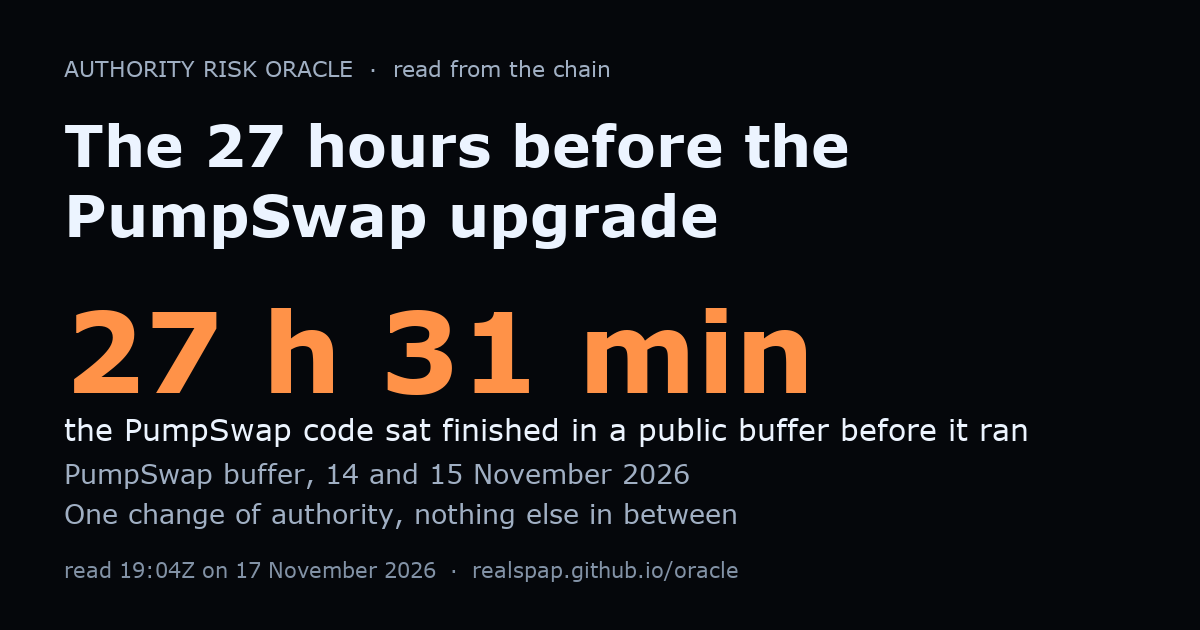
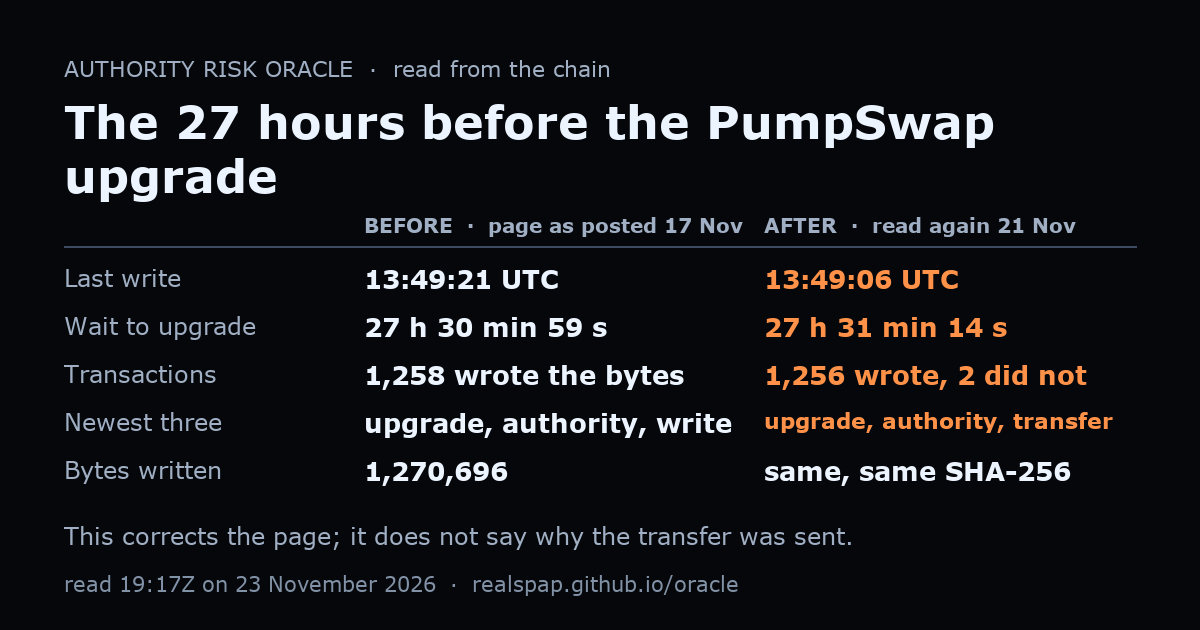
Oracle site: correct the last write of the PumpSwap note, 13:49:06 UTC and not 13:49:21 UTC
The note The 27 hours before the PumpSwap upgrade took a transaction that sends 1 lamport to each of 19 accounts for the last write. The last write is at 13:49:06 UTC (block 469350379), the wait is 27 hours 31 minutes 14 seconds instead of 27 hours 30 minutes 59 seconds, and 1,256 of the 1,258 transactions counted as writes hold a write. The bytes and their SHA-256 are unchanged. The page has a before and after table, the transfer, two more replay commands, a new share card and its date in the site map. Read at 18:56Z on 25 November 2026.

diff --git a/oracle/notes/the-27-hours/index.html b/oracle/notes/the-27-hours/index.html
@@ -1,8 +1,32 @@
-<!doctype html><html lang="en"><head><meta name="color-scheme" content="dark light"><meta charset="utf-8"><meta http-equiv="Content-Security-Policy" content="default-src 'none'; style-src 'unsafe-inline'; img-src data: https://raw.githubusercontent.com; base-uri 'none'; form-action 'none'"><meta name="referrer" content="no-referrer"><title>The 27 hours before the PumpSwap upgrade</title><meta name="description" content="I replayed the buffer of the PumpSwap upgrade of 15 November 2026 transaction by transaction: its code was fully written at 13:49:21 UTC on 14 November and ran at 17:20:20 UTC on 15 November, 27 hours 31 minutes later."><link rel="canonical" href="https://realspap.github.io/oracle/notes/the-27-hours/"><meta property="og:type" content="article"><meta property="og:title" content="The 27 hours before the PumpSwap upgrade"><meta property="og:description" content="I replayed the buffer of the PumpSwap upgrade of 15 November 2026 transaction by transaction: its code was fully written at 13:49:21 UTC on 14 November and ran at 17:20:20 UTC on 15 November, 27 hours 31 minutes later."><meta property="og:url" content="https://realspap.github.io/oracle/notes/the-27-hours/"><meta property="og:image" content="https://realspap.github.io/oracle/cards/the-27-hours.png"><meta property="og:image:width" content="1200"><meta property="og:image:height" content="630"><meta name="twitter:card" content="summary_large_image"><meta name="twitter:title" content="The 27 hours before the PumpSwap upgrade"><meta name="twitter:description" content="I replayed the buffer of the PumpSwap upgrade of 15 November 2026 transaction by transaction: its code was fully written at 13:49:21 UTC on 14 November and ran at 17:20:20 UTC on 15 November, 27 hours 31 minutes later."><meta name="twitter:image" content="https://realspap.github.io/oracle/cards/the-27-hours.png"><meta name="viewport" content="width=device-width,initial-scale=1"><style>body{font-family:-apple-system,BlinkMacSystemFont,Helvetica,Arial,sans-serif;max-width:860px;margin:0 auto;padding:24px 16px 60px;color:#e9f2ff;background:#05070b;background-image:radial-gradient(700px 400px at 85% -10%,rgba(61,230,255,.12),transparent 60%);line-height:1.55;color-scheme:dark}h1{font-size:32px;margin:10px 0 6px;letter-spacing:-.03em;line-height:1.15}h2{font-size:13px;margin:34px 0 8px;font-family:ui-monospace,Menlo,monospace;text-transform:uppercase;letter-spacing:.1em;color:#7a8ea6;font-weight:500}.lead{font-size:18px;color:#cfe0f5}nav{font-size:13px;display:flex;flex-wrap:wrap;gap:2px 12px}nav a{margin-right:0}a{color:#3de6ff}table{border-collapse:collapse;width:100%;font-size:14px}th{text-align:left;padding:6px 10px 6px 0;font-weight:500;color:#a3b6cc;border-bottom:1px solid rgba(120,175,230,.2)}td{padding:8px 10px 8px 0;vertical-align:top;border-bottom:1px solid rgba(120,175,230,.1)}.v{font-weight:700;white-space:nowrap}.v.yes{color:#7be495}.v.no{color:#ff9248}.v.not-measurable{color:#a3b6cc}.stats{display:flex;flex-wrap:wrap;gap:12px;margin:18px 0}.stats div{flex:1 1 150px;padding:12px 14px;border:1px solid rgba(120,175,230,.2);border-radius:12px;background:#0a0f17}.stats b{display:block;font-size:26px;color:#3de6ff}.stats span{font-size:13px;color:#a3b6cc}.fine{color:#7a8ea6;font-size:13px}ol.story li{margin:10px 0}pre{overflow-x:auto;max-width:100%;padding:12px;background:#0a0f17;border:1px solid rgba(120,175,230,.2);border-radius:10px;font-size:12.5px;line-height:1.45}code,td,li,p{overflow-wrap:anywhere}@media(max-width:640px){table,thead,tbody,tr,th,td{display:block}th{display:none}td{border:0;padding:2px 0}tr{padding:10px 0;border-bottom:1px solid rgba(120,175,230,.15)}td[data-label]::before{content:attr(data-label) ": ";color:#a3b6cc;font-size:12px;text-transform:uppercase;letter-spacing:.05em}}:root{--fg:#e9f2ff;--muted:#97aac2;--link:#3de6ff;--bg:#05070b;--panel:#0d131d;--code:#16202e;--focus:#3de6ff;--line:#5d7089}@media(prefers-color-scheme:light){:root{--fg:#18222f;--muted:#44566b;--link:#0a58a3;--bg:#e8ecf1;--panel:#dde3eb;--code:#d3dbe6;--focus:#0a58a3;--line:#6a7c91}body{color-scheme:light}}body{background:var(--bg);background-image:none;color:var(--fg)}a{color:var(--link)}h2,.fine,.meta{color:var(--muted)}th,td[data-label]::before{color:var(--muted)}th,td{border-bottom-color:var(--line)}code{background:var(--code);color:var(--fg);padding:0 .25em;border-radius:3px}pre{background:var(--panel);border-color:var(--line);color:var(--fg)}.toc{background:var(--panel);border:1px solid var(--line);border-radius:8px;padding:10px 16px}.toc ol{margin:6px 0 0 18px;padding:0}.toc-title{font-weight:700;margin:0}.crumbs ol{list-style:none;display:flex;flex-wrap:wrap;gap:4px 8px;padding:0;margin:14px 0 0;font-size:14px}.crumbs li+li::before{content:"\203a";margin-right:8px;color:var(--muted)}.crumbs [aria-current=page]{color:var(--fg)}.skip{position:absolute;left:8px;top:-80px;padding:8px 12px;background:var(--bg);color:var(--fg);border:2px solid var(--focus);border-radius:6px;z-index:10}.skip:focus{top:8px}a:focus-visible,.tw:focus-visible,.skip:focus-visible{outline:3px solid var(--focus);outline-offset:2px;border-radius:3px}.tw{overflow-x:auto;max-width:100%;margin:12px 0}.tw table{width:100%;font-size:14px}.tw:focus-visible{outline-offset:0}.lead,.meta,li,p{line-height:1.6}@media(max-width:640px){.tw{overflow:visible}.tw table{font-size:15px}}</style><style>@media(prefers-color-scheme:light){.stats b{color:#0a63a8}.stats span,.v.not-measurable,.al .m,.src,.sev.low,#ncount,.meta,.nl p{color:#3b4f66}.nl .m,.nf label,.rc .d,.wk dt{color:#4d6178}.v.yes,.st.ok{color:#1a6b3a}.v.no,.sev.medium,.st.catching-up,.st.degraded{color:#9a4a00}.sev.high,.st.alarm{color:#b3203a}blockquote{color:#2a3b50}.toc{background:#dde3eb;border-color:rgba(20,40,70,.18)}}</style><style id="theme-doux">@media(prefers-color-scheme:light){body{color:#18222f;background:#e8ecf1;background-image:none}h2{color:#44566b}.lead{color:#2a3b50}a{color:#0a58a3}th{color:#3b4f66;border-bottom:1px solid rgba(20,40,70,.28)}td{border-bottom:1px solid rgba(20,40,70,.28)}.stats div{border:1px solid rgba(20,40,70,.28);background:#dde3eb}.fine{color:#44566b}pre{background:#dde3eb;border:1px solid rgba(20,40,70,.28)}}</style><style>pre{white-space:pre-wrap;word-break:break-all}</style></head><body><a class="skip" href="#main">Skip to the text</a><nav aria-label="Site"><a href="https://realspap.github.io/">RealSpap</a><a href="https://realspap.github.io/oracle/">Authority Risk Oracle</a><a href="https://realspap.github.io/oracle/p/">Every contract</a><a href="https://realspap.github.io/oracle/research/">Research</a><a href="https://realspap.github.io/oracle/notes/">Notes</a><a href="https://realspap.github.io/oracle/changelog/">Changelog</a><a href="https://realspap.github.io/oracle/methodology/">Methodology</a><a href="https://realspap.github.io/oracle/api/">API</a><a href="https://realspap.github.io/oracle/watch/">Watch</a></nav><nav class="crumbs" aria-label="Breadcrumb"><ol><li><a href="https://realspap.github.io/">RealSpap</a></li><li><a href="https://realspap.github.io/oracle/">Authority Risk Oracle</a></li><li><a href="https://realspap.github.io/oracle/notes/">Notes</a></li><li aria-current="page">The 27 hours before the PumpSwap upgrade</li></ol></nav><main id="main"><h1>The 27 hours before the PumpSwap upgrade</h1><p class="lead">I replayed the buffer of the PumpSwap upgrade of 15 November 2026 transaction by transaction: its code was fully written at 13:49:21 UTC on 14 November and ran at 17:20:20 UTC on 15 November, 27 hours 31 minutes later.</p><div class="stats"><div><b>27 h 31 min</b><span>the PumpSwap code sat finished in a public buffer before it ran</span></div></div><p class="fine">read at 19:04Z on 17 November 2026. This page needs no script and no tool to read.</p><p>At 17:20:20 UTC on 15 November 2026, the program PumpSwap (pAMMBay6oceH9fJKBRHGP5D4bD4sWpmSwMn52FMfXEA on Solana mainnet-beta) was upgraded in slot 469811067. An upgrade on Solana copies new code from a buffer account into the program, and anyone can read a buffer account before the upgrade runs. This page replays the life of that buffer, block by block, with the commands to do the same.</p><p>Block 469350301, 13:48:49 UTC on 14 November 2026. The buffer HBGEzR1n1ZKCN97KRSWQUSuBoM2CGXCZf2zpWCHbV6Fj on Solana mainnet-beta receives its earliest transaction.</p><p>Blocks 469350301 to 469350454, 13:48:49 UTC to 13:49:21 UTC on 14 November 2026. The buffer receives 1,258 transactions in all, and together they write 1,270,696 bytes of code. After block 469350454, the list of transactions of the buffer shows no other write.</p><p>Block 469354509, 14:03:45 UTC on 14 November 2026. The authority of the buffer passes from the account 92gWFZMpGhWzVq5tjBnJxF9VnFwE3ydB2idJp9z2D9Nr on Solana mainnet-beta to the account 7gZufwwAo17y5kg8FMyJy2phgpvv9RSdzWtdXiWHjFr8 on Solana mainnet-beta, the vault that later runs the upgrade. The transaction is 4pxAnPnuwD2rHZBz84WWCa7Kq8DrX3MskSmFyQTMNUnfSWMYP5sLD1fBxJJFzNYeVGGLDJ29o6spakWvtQbZe1SR.</p><p>From block 469350454 to block 469811067, no transaction touches the buffer except that change of authority. The newest three transactions of the buffer, listed by command 1 below, are the upgrade, the change of authority and the last write.</p><p>Block 469811067, 17:20:20 UTC on 15 November 2026. The vault 7gZufwwAo17y5kg8FMyJy2phgpvv9RSdzWtdXiWHjFr8 on Solana mainnet-beta runs the upgrade of the program from this buffer. The transaction is 2uB6vN55cWe95KmCpk5FH7jkaFoXjLt3MLDyETiLfuQVJzcUt1FeES8W1NEwJufvyQMeaWZfVdB7R1C7RELp8uCS.</p><p>The delays come from block times, which are estimates that validators attach to a block. From 13:49:21 UTC to 17:20:20 UTC the buffer was complete and waiting for 27 hours 30 minutes 59 seconds. From 14:03:45 UTC to 17:20:20 UTC, since the vault held its authority, 27 hours 16 minutes 35 seconds. The node api.mainnet-beta.solana.com and the node solana-mainnet.gateway.tatum.io return the same three block times.</p><p>The code that waited is the code that runs. I rebuilt the buffer from its write transactions: 1,270,696 bytes, SHA-256 d2ed30147f5eb202da7094567a7e5aec35d471487eeb8a081278c519d6b04966. I read the code held by the ProgramData account 6naEzKeUuFh1Jeeu51NXQgr5qkXgXtc9WKNct4xynVJc on Solana mainnet-beta, deployed at slot 469811067: its leading 1,270,696 bytes have the same SHA-256, and the rest of the account is zeros.</p><p>This page says nothing about why the program was upgraded, what changed in its code, who the signers are, who chose the timing, or whether 27 hours is long or short. The time lock of the multisig behind the vault is 0 seconds, as the note on the PumpSwap upgrade shows: the multisig itself imposed no delay, so the hours above are what happened, and no rule required them.</p><p>Right of reply: if you work on PumpSwap or on this vault, write to contact@realspap.com. I will put your reply, unedited, at the top of this page, and I will correct, with its date, any fact above that you show me to be wrong.</p><h2>Replay it</h2><p>Each line below is one command. Run them in order; the block and the node are in the line when the answer depends on them.</p><pre tabindex="0" aria-label="Replay commands">curl -s https://api.mainnet-beta.solana.com -H &#x27;content-type: application/json&#x27; -d &#x27;{&quot;jsonrpc&quot;:&quot;2.0&quot;,&quot;id&quot;:1,&quot;method&quot;:&quot;getSignaturesForAddress&quot;,&quot;params&quot;:[&quot;HBGEzR1n1ZKCN97KRSWQUSuBoM2CGXCZf2zpWCHbV6Fj&quot;,{&quot;limit&quot;:3}]}&#x27;
-curl -s https://api.mainnet-beta.solana.com -H &#x27;content-type: application/json&#x27; -d &#x27;[{&quot;jsonrpc&quot;:&quot;2.0&quot;,&quot;id&quot;:1,&quot;method&quot;:&quot;getBlockTime&quot;,&quot;params&quot;:[469811067]},{&quot;jsonrpc&quot;:&quot;2.0&quot;,&quot;id&quot;:2,&quot;method&quot;:&quot;getBlockTime&quot;,&quot;params&quot;:[469354509]},{&quot;jsonrpc&quot;:&quot;2.0&quot;,&quot;id&quot;:3,&quot;method&quot;:&quot;getBlockTime&quot;,&quot;params&quot;:[469350454]}]&#x27;
-for s in 469811067 469354509 469350454; do curl -s https://solana-mainnet.gateway.tatum.io -H &#x27;content-type: application/json&#x27; -d &#x27;{&quot;jsonrpc&quot;:&quot;2.0&quot;,&quot;id&quot;:1,&quot;method&quot;:&quot;getBlockTime&quot;,&quot;params&quot;:[&#x27;$s&#x27;]}&#x27;; echo; sleep 13; done
+<!doctype html><html lang="en"><head><meta name="color-scheme" content="dark light"><meta charset="utf-8"><meta http-equiv="Content-Security-Policy" content="default-src 'none'; style-src 'unsafe-inline'; img-src data: https://raw.githubusercontent.com; base-uri 'none'; form-action 'none'"><meta name="referrer" content="no-referrer"><title>The 27 hours before the PumpSwap upgrade</title><meta name="description" content="I replayed the buffer of the PumpSwap upgrade of 15 November 2026 transaction by transaction: its code was fully written at 13:49:06 UTC on 14 November and ran at 17:20:20 UTC on 15 November, 27 hours 31 minutes later."><link rel="canonical" href="https://realspap.github.io/oracle/notes/the-27-hours/"><meta property="og:type" content="article"><meta property="og:title" content="The 27 hours before the PumpSwap upgrade"><meta property="og:description" content="I replayed the buffer of the PumpSwap upgrade of 15 November 2026 transaction by transaction: its code was fully written at 13:49:06 UTC on 14 November and ran at 17:20:20 UTC on 15 November, 27 hours 31 minutes later."><meta property="og:url" content="https://realspap.github.io/oracle/notes/the-27-hours/"><meta property="og:image" content="https://realspap.github.io/oracle/cards/the-27-hours.png"><meta property="og:image:width" content="1200"><meta property="og:image:height" content="630"><meta name="twitter:card" content="summary_large_image"><meta name="twitter:title" content="The 27 hours before the PumpSwap upgrade"><meta name="twitter:description" content="I replayed the buffer of the PumpSwap upgrade of 15 November 2026 transaction by transaction: its code was fully written at 13:49:06 UTC on 14 November and ran at 17:20:20 UTC on 15 November, 27 hours 31 minutes later."><meta name="twitter:image" content="https://realspap.github.io/oracle/cards/the-27-hours.png"><meta name="viewport" content="width=device-width,initial-scale=1"><style>body{font-family:-apple-system,BlinkMacSystemFont,Helvetica,Arial,sans-serif;max-width:860px;margin:0 auto;padding:24px 16px 60px;color:#e9f2ff;background:#05070b;background-image:radial-gradient(700px 400px at 85% -10%,rgba(61,230,255,.12),transparent 60%);line-height:1.55;color-scheme:dark}h1{font-size:32px;margin:10px 0 6px;letter-spacing:-.03em;line-height:1.15}h2{font-size:13px;margin:34px 0 8px;font-family:ui-monospace,Menlo,monospace;text-transform:uppercase;letter-spacing:.1em;color:#7a8ea6;font-weight:500}.lead{font-size:18px;color:#cfe0f5}nav{font-size:13px;display:flex;flex-wrap:wrap;gap:2px 12px}nav a{margin-right:0}a{color:#3de6ff}table{border-collapse:collapse;width:100%;font-size:14px}th{text-align:left;padding:6px 10px 6px 0;font-weight:500;color:#a3b6cc;border-bottom:1px solid rgba(120,175,230,.2)}td{padding:8px 10px 8px 0;vertical-align:top;border-bottom:1px solid rgba(120,175,230,.1)}.v{font-weight:700;white-space:nowrap}.v.yes{color:#7be495}.v.no{color:#ff9248}.v.not-measurable{color:#a3b6cc}.stats{display:flex;flex-wrap:wrap;gap:12px;margin:18px 0}.stats div{flex:1 1 150px;padding:12px 14px;border:1px solid rgba(120,175,230,.2);border-radius:12px;background:#0a0f17}.stats b{display:block;font-size:26px;color:#3de6ff}.stats span{font-size:13px;color:#a3b6cc}.fine{color:#7a8ea6;font-size:13px}ol.story li{margin:10px 0}pre{overflow-x:auto;max-width:100%;padding:12px;background:#0a0f17;border:1px solid rgba(120,175,230,.2);border-radius:10px;font-size:12.5px;line-height:1.45}code,td,li,p{overflow-wrap:anywhere}@media(max-width:640px){table,thead,tbody,tr,th,td{display:block}th{display:none}td{border:0;padding:2px 0}tr{padding:10px 0;border-bottom:1px solid rgba(120,175,230,.15)}td[data-label]::before{content:attr(data-label) ": ";color:#a3b6cc;font-size:12px;text-transform:uppercase;letter-spacing:.05em}}:root{--fg:#e9f2ff;--muted:#97aac2;--link:#3de6ff;--bg:#05070b;--panel:#0d131d;--code:#16202e;--focus:#3de6ff;--line:#5d7089}@media(prefers-color-scheme:light){:root{--fg:#18222f;--muted:#44566b;--link:#0a58a3;--bg:#e8ecf1;--panel:#dde3eb;--code:#d3dbe6;--focus:#0a58a3;--line:#6a7c91}body{color-scheme:light}}body{background:var(--bg);background-image:none;color:var(--fg)}a{color:var(--link)}h2,.fine,.meta{color:var(--muted)}th,td[data-label]::before{color:var(--muted)}th,td{border-bottom-color:var(--line)}code{background:var(--code);color:var(--fg);padding:0 .25em;border-radius:3px}pre{background:var(--panel);border-color:var(--line);color:var(--fg)}.toc{background:var(--panel);border:1px solid var(--line);border-radius:8px;padding:10px 16px}.toc ol{margin:6px 0 0 18px;padding:0}.toc-title{font-weight:700;margin:0}.crumbs ol{list-style:none;display:flex;flex-wrap:wrap;gap:4px 8px;padding:0;margin:14px 0 0;font-size:14px}.crumbs li+li::before{content:"\203a";margin-right:8px;color:var(--muted)}.crumbs [aria-current=page]{color:var(--fg)}.skip{position:absolute;left:8px;top:-80px;padding:8px 12px;background:var(--bg);color:var(--fg);border:2px solid var(--focus);border-radius:6px;z-index:10}.skip:focus{top:8px}a:focus-visible,.tw:focus-visible,.skip:focus-visible{outline:3px solid var(--focus);outline-offset:2px;border-radius:3px}.tw{overflow-x:auto;max-width:100%;margin:12px 0}.tw table{width:100%;font-size:14px}.tw:focus-visible{outline-offset:0}.lead,.meta,li,p{line-height:1.6}@media(max-width:640px){.tw{overflow:visible}.tw table{font-size:15px}}</style><style>@media(prefers-color-scheme:light){.stats b{color:#0a63a8}.stats span,.v.not-measurable,.al .m,.src,.sev.low,#ncount,.meta,.nl p{color:#3b4f66}.nl .m,.nf label,.rc .d,.wk dt{color:#4d6178}.v.yes,.st.ok{color:#1a6b3a}.v.no,.sev.medium,.st.catching-up,.st.degraded{color:#9a4a00}.sev.high,.st.alarm{color:#b3203a}blockquote{color:#2a3b50}.toc{background:#dde3eb;border-color:rgba(20,40,70,.18)}}</style><style id="theme-doux">@media(prefers-color-scheme:light){body{color:#18222f;background:#e8ecf1;background-image:none}h2{color:#44566b}.lead{color:#2a3b50}a{color:#0a58a3}th{color:#3b4f66;border-bottom:1px solid rgba(20,40,70,.28)}td{border-bottom:1px solid rgba(20,40,70,.28)}.stats div{border:1px solid rgba(20,40,70,.28);background:#dde3eb}.fine{color:#44566b}pre{background:#dde3eb;border:1px solid rgba(20,40,70,.28)}}</style><style>pre{white-space:pre-wrap;word-break:break-all}</style></head><body><a class="skip" href="#main">Skip to the text</a><nav aria-label="Site"><a href="https://realspap.github.io/">RealSpap</a><a href="https://realspap.github.io/oracle/">Authority Risk Oracle</a><a href="https://realspap.github.io/oracle/p/">Every contract</a><a href="https://realspap.github.io/oracle/research/">Research</a><a href="https://realspap.github.io/oracle/notes/">Notes</a><a href="https://realspap.github.io/oracle/changelog/">Changelog</a><a href="https://realspap.github.io/oracle/methodology/">Methodology</a><a href="https://realspap.github.io/oracle/api/">API</a><a href="https://realspap.github.io/oracle/watch/">Watch</a></nav><nav class="crumbs" aria-label="Breadcrumb"><ol><li><a href="https://realspap.github.io/">RealSpap</a></li><li><a href="https://realspap.github.io/oracle/">Authority Risk Oracle</a></li><li><a href="https://realspap.github.io/oracle/notes/">Notes</a></li><li aria-current="page">The 27 hours before the PumpSwap upgrade</li></ol></nav><main id="main"><h1>The 27 hours before the PumpSwap upgrade</h1><p class="lead">I replayed the buffer of the PumpSwap upgrade of 15 November 2026 transaction by transaction: its code was fully written at 13:49:06 UTC on 14 November and ran at 17:20:20 UTC on 15 November, 27 hours 31 minutes later.</p><div class="stats"><div><b>27 h 31 min</b><span>the PumpSwap code sat finished in a public buffer before it ran</span></div></div><p class="fine">read at 18:56Z on 25 November 2026. This page needs no script and no tool to read.</p><h2>Before and after</h2><div class="tw" tabindex="0" role="region" aria-label="Before and after"><table><thead><tr><th>Fact</th><th>Before: page as posted 17 Nov</th><th>After: read again 21 Nov</th></tr></thead><tbody><tr><td data-label="Fact">Last write</td><td data-label="Before: page as posted 17 Nov">13:49:21 UTC</td><td data-label="After: read again 21 Nov">13:49:06 UTC</td></tr><tr><td data-label="Fact">Wait to upgrade</td><td data-label="Before: page as posted 17 Nov">27 h 30 min 59 s</td><td data-label="After: read again 21 Nov">27 h 31 min 14 s</td></tr><tr><td data-label="Fact">Transactions</td><td data-label="Before: page as posted 17 Nov">1,258 wrote the bytes</td><td data-label="After: read again 21 Nov">1,256 wrote, 2 did not</td></tr><tr><td data-label="Fact">Newest three</td><td data-label="Before: page as posted 17 Nov">upgrade, authority, write</td><td data-label="After: read again 21 Nov">upgrade, authority, transfer</td></tr><tr><td data-label="Fact">Bytes written</td><td data-label="Before: page as posted 17 Nov">1,270,696</td><td data-label="After: read again 21 Nov">same, same SHA-256</td></tr></tbody></table></div><p>Correction of 23 November 2026. This page said that the buffer was fully written at 13:49:21 UTC on 14 November 2026 and had waited 27 hours 30 minutes 59 seconds. The transaction of 13:49:21 UTC is a transfer, not a write. The last write is at 13:49:06 UTC, in block 469350379, and the wait is 27 hours 31 minutes 14 seconds. The headline figure, 27 h 31 min, stands. The page also said that the buffer received 1,258 transactions that together wrote 1,270,696 bytes: 1,256 of them hold a write, one creates the buffer and one is the transfer. The bytes and their SHA-256 are unchanged. DAO Times raised the time on 21 November 2026, and I read the buffer again that day.</p><p>At 17:20:20 UTC on 15 November 2026, the program PumpSwap (pAMMBay6oceH9fJKBRHGP5D4bD4sWpmSwMn52FMfXEA on Solana mainnet-beta) was upgraded in slot 469811067. An upgrade on Solana copies new code from a buffer account into the program, and anyone can read a buffer account before the upgrade runs. This page replays the life of that buffer, block by block, with the commands to do the same.</p><p>Block 469350301, 13:48:49 UTC on 14 November 2026. The buffer HBGEzR1n1ZKCN97KRSWQUSuBoM2CGXCZf2zpWCHbV6Fj on Solana mainnet-beta receives its earliest transaction: the creation of the account and its set-up as a buffer, signed by the account 92gWFZMpGhWzVq5tjBnJxF9VnFwE3ydB2idJp9z2D9Nr on Solana mainnet-beta, which holds its authority.</p><p>Blocks 469350322 to 469350379, 13:48:53 UTC to 13:49:06 UTC on 14 November 2026. The buffer receives 1,256 transactions that each hold one write, and together they write 1,270,696 bytes of code. The last of them is in block 469350379, at 13:49:06 UTC. No later transaction holds a write.</p><p>Block 469350454, 13:49:21 UTC on 14 November 2026. A transaction signed by the account 4yWkD5KrH6knPLfBzaFG5oZuYGgDp4jQDBfgpVsG1hqh on Solana mainnet-beta sends 1 lamport to each of 19 accounts, one of which is the buffer. It writes nothing. That account is neither the authority of the buffer nor the vault, and the chain does not say why it sent the lamports.</p><p>Block 469354509, 14:03:45 UTC on 14 November 2026. The authority of the buffer passes from the account 92gWFZMpGhWzVq5tjBnJxF9VnFwE3ydB2idJp9z2D9Nr on Solana mainnet-beta to the account 7gZufwwAo17y5kg8FMyJy2phgpvv9RSdzWtdXiWHjFr8 on Solana mainnet-beta, the vault that later runs the upgrade. The transaction is 4pxAnPnuwD2rHZBz84WWCa7Kq8DrX3MskSmFyQTMNUnfSWMYP5sLD1fBxJJFzNYeVGGLDJ29o6spakWvtQbZe1SR.</p><p>After block 469350454 and before the upgrade, one transaction touches the buffer: that change of authority. The newest five transactions of the buffer, listed by command 1 below, are the upgrade, the change of authority, the transfer and two writes.</p><p>Block 469811067, 17:20:20 UTC on 15 November 2026. The vault 7gZufwwAo17y5kg8FMyJy2phgpvv9RSdzWtdXiWHjFr8 on Solana mainnet-beta runs the upgrade of the program from this buffer. The transaction is 2uB6vN55cWe95KmCpk5FH7jkaFoXjLt3MLDyETiLfuQVJzcUt1FeES8W1NEwJufvyQMeaWZfVdB7R1C7RELp8uCS.</p><p>The delays come from block times, which are estimates that validators attach to a block. From 13:49:06 UTC to 17:20:20 UTC the buffer was complete and waiting for 27 hours 31 minutes 14 seconds. The authority passed to the vault 14 minutes 39 seconds after the last write; from 14:03:45 UTC to 17:20:20 UTC, since the vault held its authority, 27 hours 16 minutes 35 seconds. The node api.mainnet-beta.solana.com and the node solana-mainnet.gateway.tatum.io return the same three block times.</p><p>The code that waited is the code that ran. I rebuilt the buffer from its 1,256 write transactions: 1,270,696 bytes, SHA-256 d2ed30147f5eb202da7094567a7e5aec35d471487eeb8a081278c519d6b04966. At 19:04Z on 17 November 2026 I read the code held by the ProgramData account 6naEzKeUuFh1Jeeu51NXQgr5qkXgXtc9WKNct4xynVJc on Solana mainnet-beta, deployed at slot 469811067: its leading 1,270,696 bytes had the same SHA-256, and the rest of the account was zeros. PumpSwap was upgraded again at 19:28:12 UTC on 20 November 2026, in slot 471854493, so that account now holds other code and the last line of command 8 differs from the one before it; the reading of 17 November is the record of the match.</p><p>This page says nothing about why the program was upgraded, what changed in its code, who the signers are, who chose the timing, or whether 27 hours is long or short. The time lock of the multisig behind the vault is 0 seconds, as the note on the PumpSwap upgrade shows: the multisig itself imposed no delay, so the hours above are what happened, and no rule required them.</p><p>Right of reply: if you work on PumpSwap or on this vault, write to contact@realspap.com. I will put your reply, unedited, at the top of this page, and I will correct, with its date, any fact above that you show me to be wrong.</p><p>This corrects the page; it does not say why the transfer was sent.</p><h2>Replay it</h2><p>Each line below is one command. Run them in order; the block and the node are in the line when the answer depends on them.</p><pre tabindex="0" aria-label="Replay commands">curl -s https://api.mainnet-beta.solana.com -H &#x27;content-type: application/json&#x27; -d &#x27;{&quot;jsonrpc&quot;:&quot;2.0&quot;,&quot;id&quot;:1,&quot;method&quot;:&quot;getSignaturesForAddress&quot;,&quot;params&quot;:[&quot;HBGEzR1n1ZKCN97KRSWQUSuBoM2CGXCZf2zpWCHbV6Fj&quot;,{&quot;limit&quot;:5}]}&#x27;
+curl -s https://api.mainnet-beta.solana.com -H &#x27;content-type: application/json&#x27; -d &#x27;[{&quot;jsonrpc&quot;:&quot;2.0&quot;,&quot;id&quot;:1,&quot;method&quot;:&quot;getBlockTime&quot;,&quot;params&quot;:[469811067]},{&quot;jsonrpc&quot;:&quot;2.0&quot;,&quot;id&quot;:2,&quot;method&quot;:&quot;getBlockTime&quot;,&quot;params&quot;:[469354509]},{&quot;jsonrpc&quot;:&quot;2.0&quot;,&quot;id&quot;:3,&quot;method&quot;:&quot;getBlockTime&quot;,&quot;params&quot;:[469350379]}]&#x27;
+for s in 469811067 469354509 469350379; do curl -s https://solana-mainnet.gateway.tatum.io -H &#x27;content-type: application/json&#x27; -d &#x27;{&quot;jsonrpc&quot;:&quot;2.0&quot;,&quot;id&quot;:1,&quot;method&quot;:&quot;getBlockTime&quot;,&quot;params&quot;:[&#x27;$s&#x27;]}&#x27;; echo; sleep 13; done
 curl -s https://api.mainnet-beta.solana.com -H &#x27;content-type: application/json&#x27; -d &#x27;{&quot;jsonrpc&quot;:&quot;2.0&quot;,&quot;id&quot;:1,&quot;method&quot;:&quot;getTransaction&quot;,&quot;params&quot;:[&quot;4pxAnPnuwD2rHZBz84WWCa7Kq8DrX3MskSmFyQTMNUnfSWMYP5sLD1fBxJJFzNYeVGGLDJ29o6spakWvtQbZe1SR&quot;,{&quot;encoding&quot;:&quot;jsonParsed&quot;,&quot;maxSupportedTransactionVersion&quot;:0}]}&#x27;
 curl -s https://api.mainnet-beta.solana.com -H &#x27;content-type: application/json&#x27; -d &#x27;{&quot;jsonrpc&quot;:&quot;2.0&quot;,&quot;id&quot;:1,&quot;method&quot;:&quot;getTransaction&quot;,&quot;params&quot;:[&quot;2uB6vN55cWe95KmCpk5FH7jkaFoXjLt3MLDyETiLfuQVJzcUt1FeES8W1NEwJufvyQMeaWZfVdB7R1C7RELp8uCS&quot;,{&quot;encoding&quot;:&quot;jsonParsed&quot;,&quot;maxSupportedTransactionVersion&quot;:0}]}&#x27;
+curl -s https://api.mainnet-beta.solana.com -H &#x27;content-type: application/json&#x27; -d &#x27;{&quot;jsonrpc&quot;:&quot;2.0&quot;,&quot;id&quot;:1,&quot;method&quot;:&quot;getTransaction&quot;,&quot;params&quot;:[&quot;wctUbGW2pMfBqqDM5mzUMow5jdpRpwGJACPKutdShoqGhJd6AczV8rBTzqAYHKgYsXfxabFneBvnMfHZajZUG1x&quot;,{&quot;encoding&quot;:&quot;jsonParsed&quot;,&quot;maxSupportedTransactionVersion&quot;:0}]}&#x27;
+python3 -c &#x27;
+import json, time, urllib.request
+RPC = &quot;https://api.mainnet-beta.solana.com&quot;
+BUF = &quot;HBGEzR1n1ZKCN97KRSWQUSuBoM2CGXCZf2zpWCHbV6Fj&quot;  # Solana mainnet-beta
+def rpc(m, p):
+    for k in range(6):
+        try:
+            req = urllib.request.Request(RPC, json.dumps({&quot;jsonrpc&quot;: &quot;2.0&quot;, &quot;id&quot;: 1, &quot;method&quot;: m, &quot;params&quot;: p}).encode(), {&quot;content-type&quot;: &quot;application/json&quot;})
+            r = json.loads(urllib.request.urlopen(req, timeout=60).read())
+            if r.get(&quot;result&quot;) is not None: return r[&quot;result&quot;]
+        except Exception: pass
+        time.sleep(2 + 2 * k)
+    raise SystemExit(&quot;the node did not answer &quot; + m)
+up = rpc(&quot;getBlockTime&quot;, [469811067])
+for s in rpc(&quot;getSignaturesForAddress&quot;, [BUF, {&quot;limit&quot;: 20}]):
+    tx = rpc(&quot;getTransaction&quot;, [s[&quot;signature&quot;], {&quot;encoding&quot;: &quot;jsonParsed&quot;, &quot;maxSupportedTransactionVersion&quot;: 0}])
+    if any(isinstance(i.get(&quot;parsed&quot;), dict) and i[&quot;parsed&quot;].get(&quot;type&quot;) == &quot;write&quot; and i[&quot;parsed&quot;][&quot;info&quot;][&quot;account&quot;] == BUF for i in tx[&quot;transaction&quot;][&quot;message&quot;][&quot;instructions&quot;]):
+        w = up - s[&quot;blockTime&quot;]
+        print(&quot;newest write: slot&quot;, s[&quot;slot&quot;], &quot;block time&quot;, s[&quot;blockTime&quot;], s[&quot;signature&quot;])
+        print(&quot;upgrade&quot;, w, &quot;seconds later:&quot;, w // 3600, &quot;h&quot;, w % 3600 // 60, &quot;min&quot;, w % 60, &quot;s&quot;)
+        break
+    time.sleep(0.2)
+&#x27;
 python3 -c &#x27;
 import base64, hashlib, json, time, urllib.request
 RPC = &quot;https://api.mainnet-beta.solana.com&quot;
@@ -23,21 +47,25 @@ while True:
     sigs += page
     if len(page) != 1000: break
     before = page[-1][&quot;signature&quot;]
-writes = {}
+writes, with_write = {}, 0
 for s in sigs:
     tx = rpc(&quot;getTransaction&quot;, [s[&quot;signature&quot;], {&quot;encoding&quot;: &quot;jsonParsed&quot;, &quot;maxSupportedTransactionVersion&quot;: 0}])
+    found = 0
     for i in tx[&quot;transaction&quot;][&quot;message&quot;][&quot;instructions&quot;]:
         p = i.get(&quot;parsed&quot;)
         if isinstance(p, dict) and p.get(&quot;type&quot;) == &quot;write&quot; and p[&quot;info&quot;][&quot;account&quot;] == BUF:
-            writes[p[&quot;info&quot;][&quot;offset&quot;]] = base64.b64decode(p[&quot;info&quot;][&quot;bytes&quot;])
+            writes[p[&quot;info&quot;][&quot;offset&quot;]] = base64.b64decode(p[&quot;info&quot;][&quot;bytes&quot;]); found = 1
+    with_write += found
     time.sleep(0.12)
 n = max(o + len(b) for o, b in writes.items())
 code = bytearray(n)
 for o, b in writes.items(): code[o:o + len(b)] = b
 pd = base64.b64decode(rpc(&quot;getAccountInfo&quot;, [PD, {&quot;encoding&quot;: &quot;base64&quot;}])[&quot;value&quot;][&quot;data&quot;][0])
-print(len(sigs), &quot;transactions,&quot;, n, &quot;bytes written&quot;)
+print(len(sigs), &quot;transactions,&quot;, with_write, &quot;of them hold a write,&quot;, n, &quot;bytes written&quot;)
 print(&quot;buffer  &quot;, hashlib.sha256(code).hexdigest())
 print(&quot;program &quot;, hashlib.sha256(pd[45:45 + n]).hexdigest())
-&#x27;</pre><h2>What it printed on 16 November 2026</h2><pre tabindex="0" aria-label="Output of the run">command 1: three signatures, newest first, in slots 469811067, 469354509 and 469350454
-commands 2 and 3: block times 1794763220, 1794665025 and 1794664161 (17:20:20 UTC, 14:03:45 UTC and 13:49:21 UTC)
-command 6: 1260 transactions, 1270696 bytes written; buffer d2ed30147f5eb202da7094567a7e5aec35d471487eeb8a081278c519d6b04966; program d2ed30147f5eb202da7094567a7e5aec35d471487eeb8a081278c519d6b04966</pre><h2>Limit</h2><p>A reading of public accounts and transactions on public nodes of Solana mainnet-beta between 13:26Z and 14:38Z on 16 November 2026 and again at 19:04Z on 17 November 2026 (the list of transactions of the buffer, the block times and the ProgramData account; the written bytes are those of the transactions read on 16 November, which a confirmed transaction does not change), each node answering with the genesis hash of that network. The buffer account no longer exists, so its content is rebuilt from the transactions that wrote it. The list of its transactions comes from the node api.mainnet-beta.solana.com, which keeps this history; another public node returns recent blocks only. The second node, solana-mainnet.gateway.tatum.io, answers five requests per minute on its free plan, hence the pause in the third command. The last command sends about 1262 requests and took about 65 minutes on that node on 16 November 2026. A later upgrade of PumpSwap would change the code held by ProgramData, and the last command would then print a different second hash.</p><h2>Sources</h2><ul><li><a href="https://realspap.github.io/oracle/notes/pumpswap-upgrade-15-nov/">Note: PumpSwap upgrade, a 3-of-4 vault, no time lock</a></li><li><a href="https://github.com/anza-xyz/agave">Solana validator client, loader of upgradeable programs</a></li></ul><p class="fine"><a href="../">All notes</a>. Comments are welcome at contact@realspap.com, with the command and the block so that I can replay yours. Not an audit, not investment advice.</p></main></body></html>
+&#x27;</pre><h2>What it printed on 21 November 2026</h2><pre tabindex="0" aria-label="Output of the run">command 1: five signatures, newest first, in slots 469811067, 469354509, 469350454, 469350379 and 469350379
+commands 2 and 3: block times 1794763220, 1794665025 and 1794664146 (17:20:20 UTC, 14:03:45 UTC and 13:49:06 UTC)
+command 6: 19 transfers of 1 lamport in slot 469350454 on Solana mainnet-beta, signed by the account 4yWkD5KrH6knPLfBzaFG5oZuYGgDp4jQDBfgpVsG1hqh on Solana mainnet-beta, one of them to the buffer
+command 7: newest write in slot 469350379, block time 1794664146, 99074 seconds before the upgrade (27 h 31 min 14 s)
+command 8: 1260 transactions, 1256 of them hold a write, 1270696 bytes written; buffer d2ed30147f5eb202da7094567a7e5aec35d471487eeb8a081278c519d6b04966; program 5adb845d85ee652ca6440d37a8297e0787db2312bd1caf167b058a568cca7588</pre><h2>Limit</h2><p>A reading of public accounts and transactions on public nodes of Solana mainnet-beta between 13:26Z and 14:38Z on 16 November 2026, again at 19:04Z on 17 November 2026, and again at 18:56Z on 25 November 2026 (the list of the 1,260 transactions of the buffer, the four that hold no write, the block times, the transfer and the ProgramData account), each node answering with the genesis hash of that network. The write instructions come from the transactions read on 16 November and read again by command 8 on 21 November; a confirmed transaction does not change. The buffer account no longer exists, so its content is rebuilt from the transactions that wrote it. The list of its transactions comes from the node api.mainnet-beta.solana.com, which keeps this history; another public node returns recent blocks only. The second node, solana-mainnet.gateway.tatum.io, answers five requests per minute on its free plan, hence the pause in the third command. The last command sends about 1262 requests and took about 46 minutes on 21 November 2026. Since the upgrade of 20 November 2026 the code held by ProgramData is not the code of the buffer, and the last line of command 8 differs from the line before it.</p><h2>Sources</h2><ul><li><a href="https://realspap.github.io/oracle/notes/pumpswap-upgrade-15-nov/">Note: PumpSwap upgrade, a 3-of-4 vault, no time lock</a></li><li><a href="https://github.com/anza-xyz/agave">Solana validator client, loader of upgradeable programs</a></li><li><a href="https://github.com/RealSpap/authority-risk-oracle-showcase/blob/main/errata/README.md">Corrections log of this work</a></li></ul><p class="fine"><a href="../">All notes</a>. Comments are welcome at contact@realspap.com, with the command and the block so that I can replay yours. Not an audit, not investment advice.</p></main></body></html>
